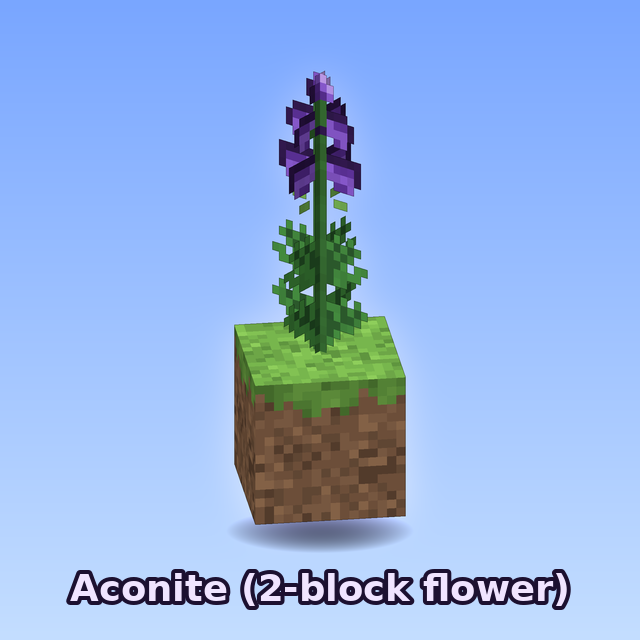
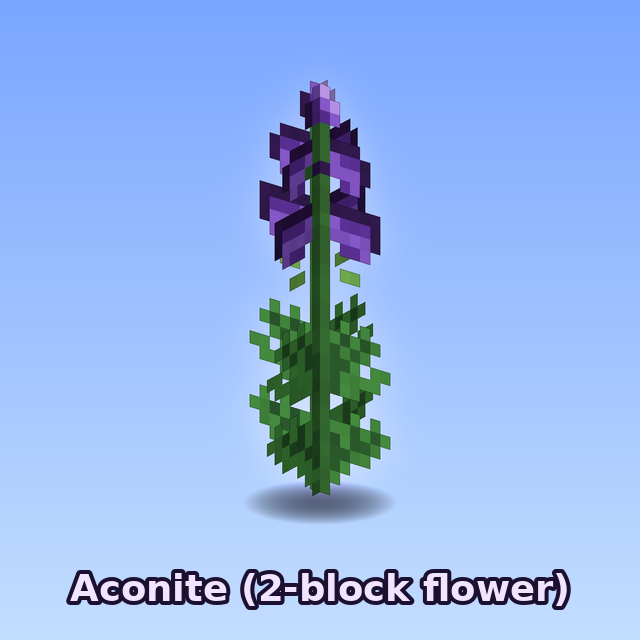
Final previews: flowers rendered without blocks, combined final_flowers sheet
Claude-Session: https://claude.ai/code/session_0166TX26fejPRvsb1yZnnHPz

Changed region(s): [[0.3438, 0.0938, 0.6562, 0.875]]

diff --git a/tools/build.py b/tools/build.py
@@ -228,15 +228,19 @@ def build_aconite():
     os.makedirs(PV + "/aconite", exist_ok=True)
     tiles = []
     for i, (name, lo, hi, label) in enumerate(stages):
-        els = grass_block(seed=i) + cross(pix(lo)) + (cross(pix(hi), 16) if hi else [])
+        els = cross(pix(lo)) + (cross(pix(hi), 16) if hi else [])
         # fixed framing so the plants visibly grow
-        els += [dict(f=[-2, -16, 8], t=[18, 33, 8], rot=None, faces={"north": (np.zeros((1, 1, 4), np.uint8), [0, 0, 1, 1])})]
-        tiles.append(render(els, size=360, yaw=-8, label=f"{i + 1}. {label}", bg=SKY))
-    strip = Image.new("RGB", (360 * len(tiles), 360))
+        els += [dict(f=[-2, 0, 8], t=[18, 33, 8], rot=None, faces={"north": (np.zeros((1, 1, 4), np.uint8), [0, 0, 1, 1])})]
+        tiles.append(render(els, size=480, yaw=-8, label=f"{i + 1}. {label}", bg=SKY))
+    frame = [dict(f=[-2, 0, 8], t=[18, 33, 8], rot=None, faces={"north": (np.zeros((1, 1, 4), np.uint8), [0, 0, 1, 1])})]
+    tiles.append(render(cross(bot) + cross(pix([r.translate(WOLFSBANE) for r in TOP]), 16) + frame, size=480, yaw=-8,
+                        label="7. Yellow Wolfsbane", bg=SKY))
+    strip = Image.new("RGB", (480 * 4, 480 * 2), SKY[1])
     for i, t in enumerate(tiles):
-        strip.paste(t, (i * 360, 0))
+        strip.paste(t, ((i % 4) * 480, (i // 4) * 480))
     strip.save(PV + "/aconite/growth_stages.png")
-    render(grass_block() + cross(bot) + cross(wolf_top, 16), size=512, yaw=-8, label="Yellow Wolfsbane", bg=SKY).save(PV + "/aconite/wolfsbane.png")
+    globals()["_flower_tiles"] = strip
+    render(cross(bot) + cross(wolf_top, 16), size=512, yaw=-8, label="Yellow Wolfsbane", bg=SKY).save(PV + "/aconite/wolfsbane.png")
 
     # 3D chunky aconite (cuboid) for item frames / display entities / hats
     m = Model("aconite_3d", "Aconite (3D)")
@@ -254,10 +258,13 @@ def build_aconite():
     w(os.path.join(A, "items", "aconite_3d.json"), {"model": {"type": "minecraft:model", "model": "aconite:item/aconite_3d"}})
 
     os.makedirs(PV + "/aconite", exist_ok=True)
-    render(grass_block() + cross(bot) + cross(top, 16), size=640, yaw=-8, label="Aconite (2-block flower)", bg=SKY).save(PV + "/aconite/aconite_flower.png")
+    render(cross(bot) + cross(top, 16), size=640, yaw=-8, label="Aconite (2-block flower)", bg=SKY).save(PV + "/aconite/aconite_flower.png")
     pot = [solid([5, 0, 5], [11, 6, 11], (150, 76, 52), 5), solid([6, 5.9, 6], [10, 6, 10], (70, 45, 30), 2)]
     render(pot + cross(small, 4, 0.75, (8, 8)), size=512, label="Potted Aconite").save(PV + "/aconite/potted_aconite.png")
     render(m.render_elements(tex), size=512, label="Aconite (3D model)").save(PV + "/aconite/aconite_3d.png")
+    final = globals()["_flower_tiles"]
+    final.paste(render(m.render_elements(tex), size=480, label="8. Aconite 3D model", bg=SKY), (3 * 480, 480))
+    final.save(PV + "/final_flowers.png")
     big = Image.new("RGBA", (16 * 3 * 16 + 40, 16 * 16 + 20), (20, 10, 32, 255))
     for i, t in enumerate([top, bot, small]):
         big.paste(t.resize((256, 256), Image.NEAREST), (10 + i * 266, 10), t.resize((256, 256), Image.NEAREST))

diff --git a/README.md b/README.md
@@ -8,10 +8,10 @@ Minecraft-style **Aconite (monkshood) flower** + **96 custom head cosmetics** (c
 - `previews/all_heads.png` — every head (purple frame = "cool" tier). Single renders in `previews/heads/`, flower renders in `previews/aconite/`.
 - `tools/build.py` — regenerates everything (`python tools/build.py`, needs numpy + pillow). Designs live in `tools/designs.py`.
 
-Aconite growth: 6 stages (sprout, leaves, yellow buds, buds turning purple, 2 blocks tall, full bloom) as `aconite:block/aconite_stage0..5`, plus a yellow **wolfsbane** variant. `previews/aconite_growth.png` shows them all.
+Aconite growth: 6 stages (sprout, leaves, yellow buds, buds turning purple, 2 blocks tall, full bloom) as `aconite:block/aconite_stage0..5`, plus a yellow **wolfsbane** variant. `previews/final_flowers.png` shows them all.
 - `addon_aconite_crop/` (optional, load above the main pack) re-skins the vanilla **pitcher crop** (age 0-4, grows 2 blocks tall) as aconite, so planting pitcher pods grows a real aconite in survival.
 
-Head previews use lojjkli's real skin (`tools/skins/lojjkli.png`). Flower previews sit on vanilla-style grass blocks.
+Head previews use lojjkli's real skin (`tools/skins/lojjkli.png`).
 
 Aconite flower: `aconite:block/aconite_top|bottom` (2-block cross plant like lilac), `aconite:block/potted_aconite`, item `aconite:aconite`, and a chunky 3D version `aconite:aconite_3d`. A real placeable block needs a mod/datapack; the pack supplies the models and textures.
 
